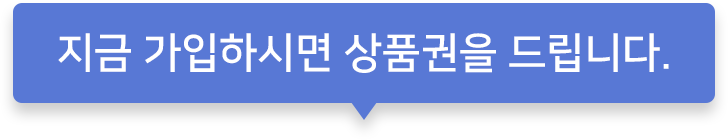
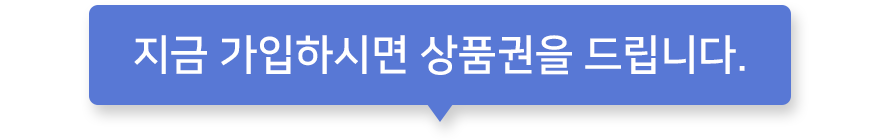
commit

Changed region(s): [[0.0, 0.0, 0.9973, 0.8571]]

diff --git a/[2018-08-09]Onsure_mobile/inc/css/common.css b/[2018-08-09]Onsure_mobile/inc/css/common.css
@@ -481,7 +481,7 @@ img {width:100%;}
 
 .toolTipBoxTy03,
 .toolTipBoxTy04 {width:120%;position:absolute;top:-45px;left:50%;border-radius:4px;text-align:center;/*box-shadow: 0px 10px 15px 0px rgba(0, 0, 0, 0.2);*/transform:translateX(-50%);}
-.toolTipBoxTy04 {top:-60px;}
+/* .toolTipBoxTy04 {top:-60px;} */
 /* .toolTipBoxTy03:after {content:'';width:9px;height:6px;display:block;position:absolute;bottom:-4px;left:138px;background:url(../images/ico_toolTip_type_03.png) center center no-repeat;background-size:100% auto;}
 .toolTipBoxTy03 > p {font-family:NanumSquareB;font-size:14px;color:#fff;white-space:nowrap;} */
 
